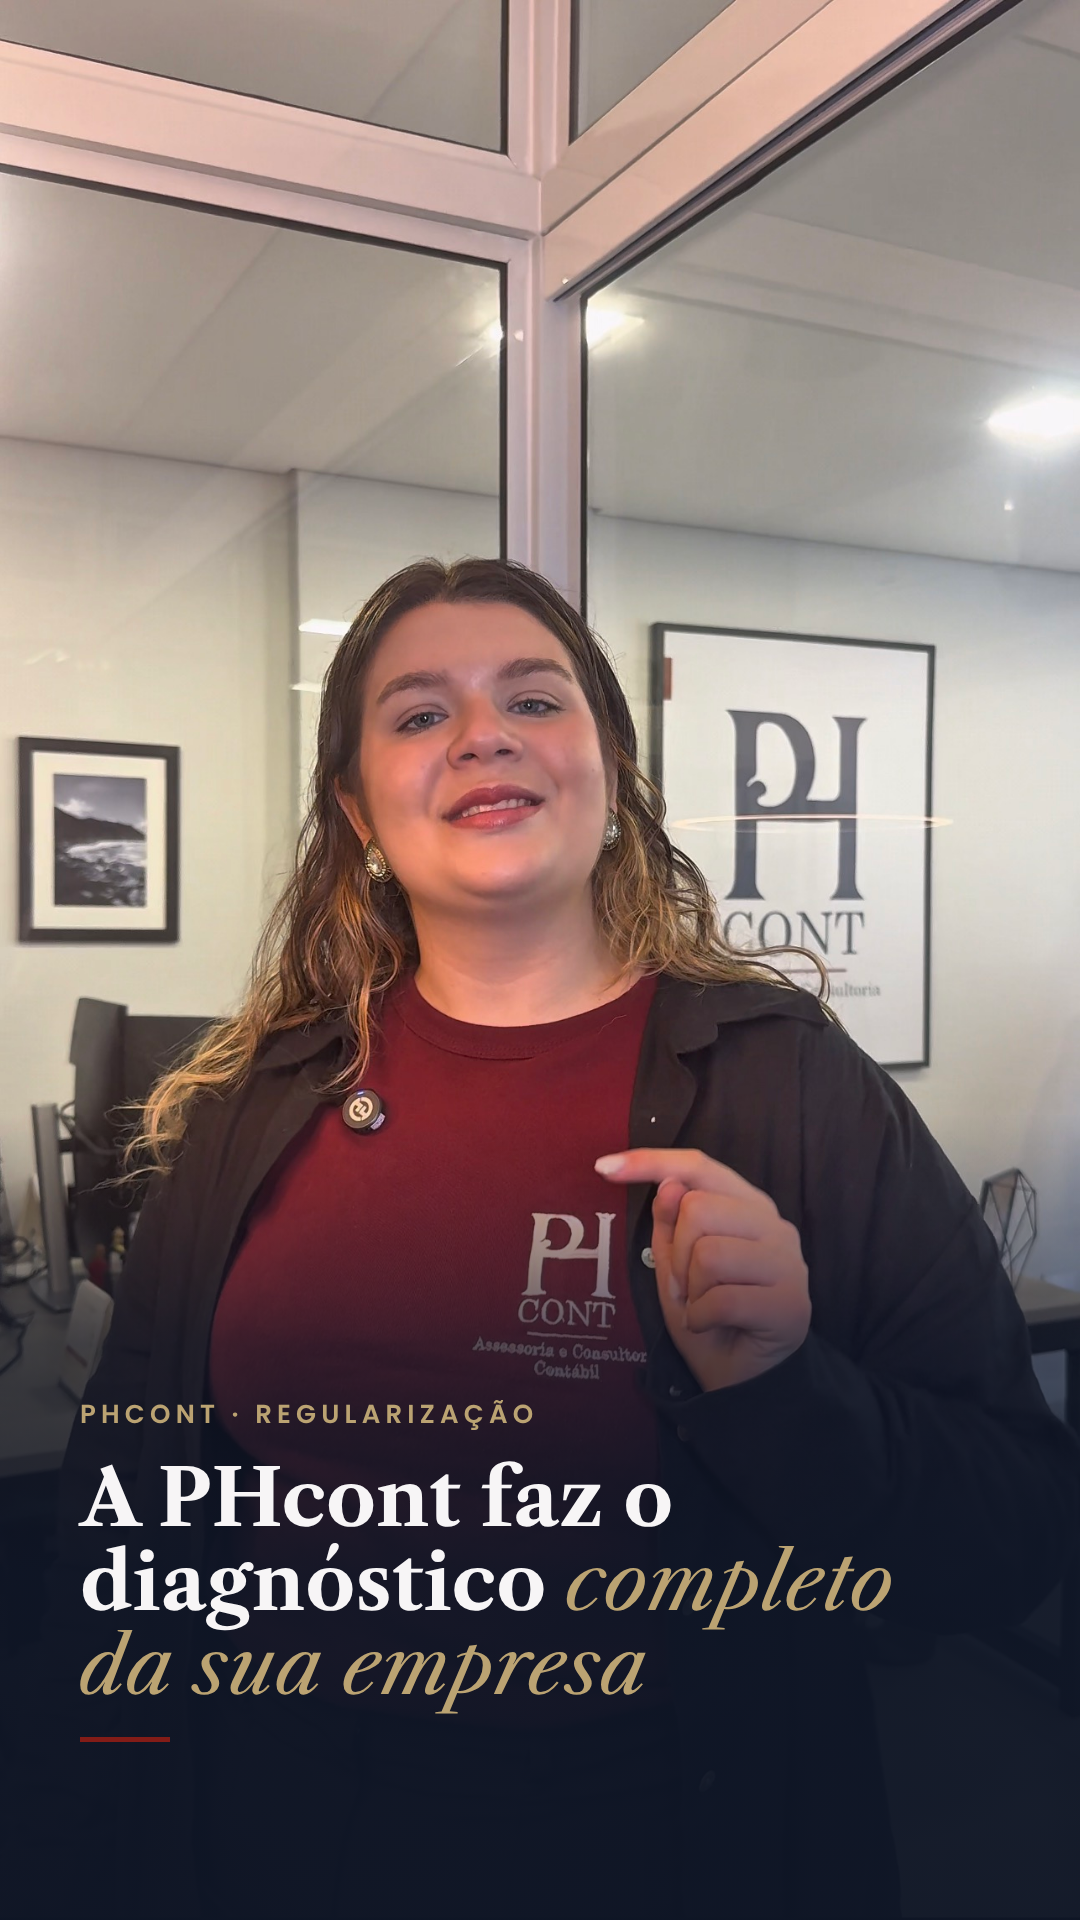
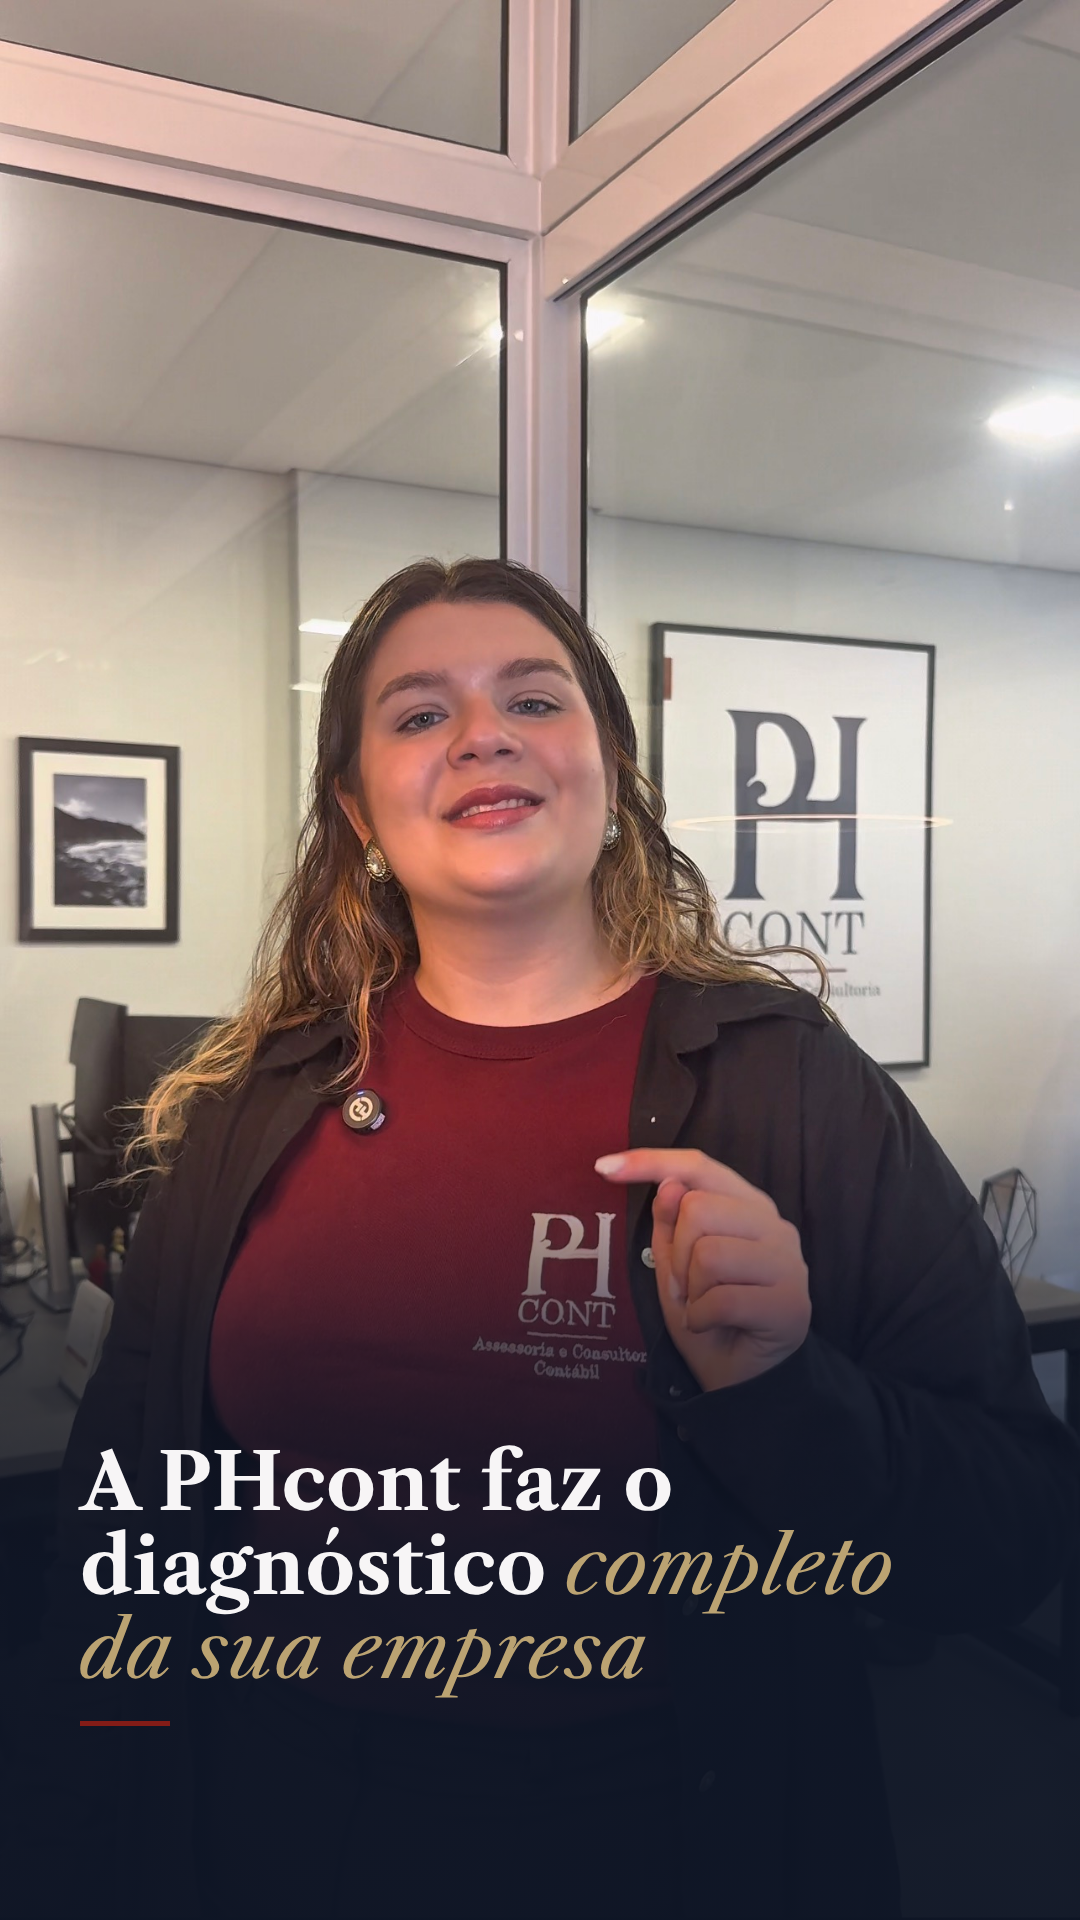
Capa final: editorial sem etiqueta
Claude-Session: https://claude.ai/code/session_012bVqEb5M2bw1tnz2qQiCDo

Changed region(s): [[0.0611, 0.7188, 0.825, 0.9062]]

diff --git a/edicao_video2/capa/capa_editorial.html b/edicao_video2/capa/capa_editorial.html
@@ -4,12 +4,12 @@
 html,body{width:1080px;height:1920px;overflow:hidden}
 .f{position:absolute;inset:0;background:url(foto_capa.jpg) center 30%/cover}
 .g{position:absolute;inset:0;background:linear-gradient(180deg,rgba(15,22,38,0) 58%,rgba(15,22,38,.7) 70%,rgba(15,22,38,.95) 82%,rgba(15,22,38,.97) 100%)}
-.bloco{position:absolute;left:80px;right:80px;top:1395px}
+.bloco{position:absolute;left:80px;right:80px;top:1440px}
 .rot{font-family:Poppins;font-weight:600;font-size:26px;letter-spacing:.2em;color:#bba372}
-.t{margin-top:22px;font-family:'Libre Caslon Text',serif;font-weight:700;font-size:78px;line-height:1.08;color:#f7f5f6}
+.t{margin-top:0;font-family:'Libre Caslon Text',serif;font-weight:700;font-size:78px;line-height:1.08;color:#f7f5f6}
 .t em{font-style:italic;font-weight:400;color:#bba372}
 .sub{width:90px;height:5px;background:#831c17;margin-top:28px}
 </style></head><body><div class="f"></div><div class="g"></div>
-<div class="bloco"><div class="rot">PHCONT · REGULARIZAÇÃO</div>
+<div class="bloco">
 <div class="t">A PHcont faz o diagnóstico <em>completo da sua empresa</em></div><div class="sub"></div></div>
 </body></html>

diff --git a/.claude/skills/phcont/SKILL.md b/.claude/skills/phcont/SKILL.md
@@ -82,7 +82,7 @@ Diferente dos vídeos, nas **capas** a cliente quer o estilo do feed (`estilo/ma
 (sem recorte nem sombra azul em volta, só vinheta leve), título **embaixo**, dentro do recorte 3:4 (y 240–1680). Dois
 modelos em `edicao_video2/capa/`:
 - `capa_caixas.html`: Poppins Bold branco em **caixas retas**, a 1ª linha marinho `#1F2B42` e a 2ª bordô `#7A2A33`, deslocada.
-- `capa_editorial.html`: degradê marinho embaixo, etiqueta dourada em maiúsculas, título **serifado** (Libre Caslon)
+- `capa_editorial.html` (**a escolhida pela cliente**, sem etiqueta pequena acima do título): degradê marinho embaixo, título **serifado** (Libre Caslon)
   branco com o final em **itálico dourado** e um traço bordô curto.
 
 ## Telas animadas (estilo A, o primeiro aprovado)
